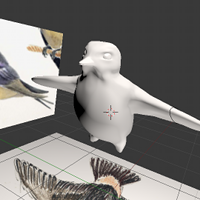
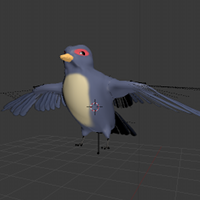
Updating model pics

diff --git a/js/data.js b/js/data.js
@@ -17,14 +17,14 @@ var model_rows = [
     ["id",        "name",       "multi",  "images",               "current",        "past"    ]
 
     ,["butterfly", "Butterfly",  false,   ["Butterfly.png"],      ["gabriell"],     []        ]
-    ,["ladybug",   "Ladybug",    false,   [],                     ["danice"],       []        ]
+    ,["ladybug",   "Ladybug",    false,   ["Ladybug.png"],                     ["danice"],       []        ]
     ,["ant",       "Ant",        false,   ["Ant.png"],            ["igor"],         []        ]
-    ,["beetle",    "Beetle",     false,   [],                     ["igor"],               []        ]
-    ,["dragonfly", "Dragonfly",  false,   ["Dragonfly.png"],      ["dave"],         []        ]
-    ,["bird",      "Bird",       false,   ["Bird.png"],           ["patrick"],      []        ]
-    ,["house",     "House",      false,   ["Mushroom_House.png"], ["domenic"],      []        ]
+    ,["beetle",    "Beetle",     false,   ["Beetle1.png"],                     ["igor"],               []        ]
+    ,["dragonfly", "Dragonfly",  false,   ["Dragonfly.png?v=2"],      ["dave"],         []        ]
+    ,["bird",      "Bird",       false,   ["Bird.png?v=2"],           ["patrick"],      []        ]
+    ,["house",     "House",      false,   ["Mushroom_House.png?v=2"], ["domenic"],      []        ]
     ,["grain",     "Grain",      false,   [],                     ["domenic"],               []        ]
-    ,["broom",     "Broom",      false,   [],                     ["dave"],         []        ]
+    ,["broom",     "Broom",      false,   ["Broom.png"],                     ["dave"],         []        ]
     ,["trees",     "Trees",      true,    [],                     ["domenic"],      []        ]
     ,["flowers",   "Flowers",    true,    ["Flowers.png"],        ["domenic"],      []        ]
     ,["grass",     "Grass",      true,    [],                     ["danice"],               []        ]
